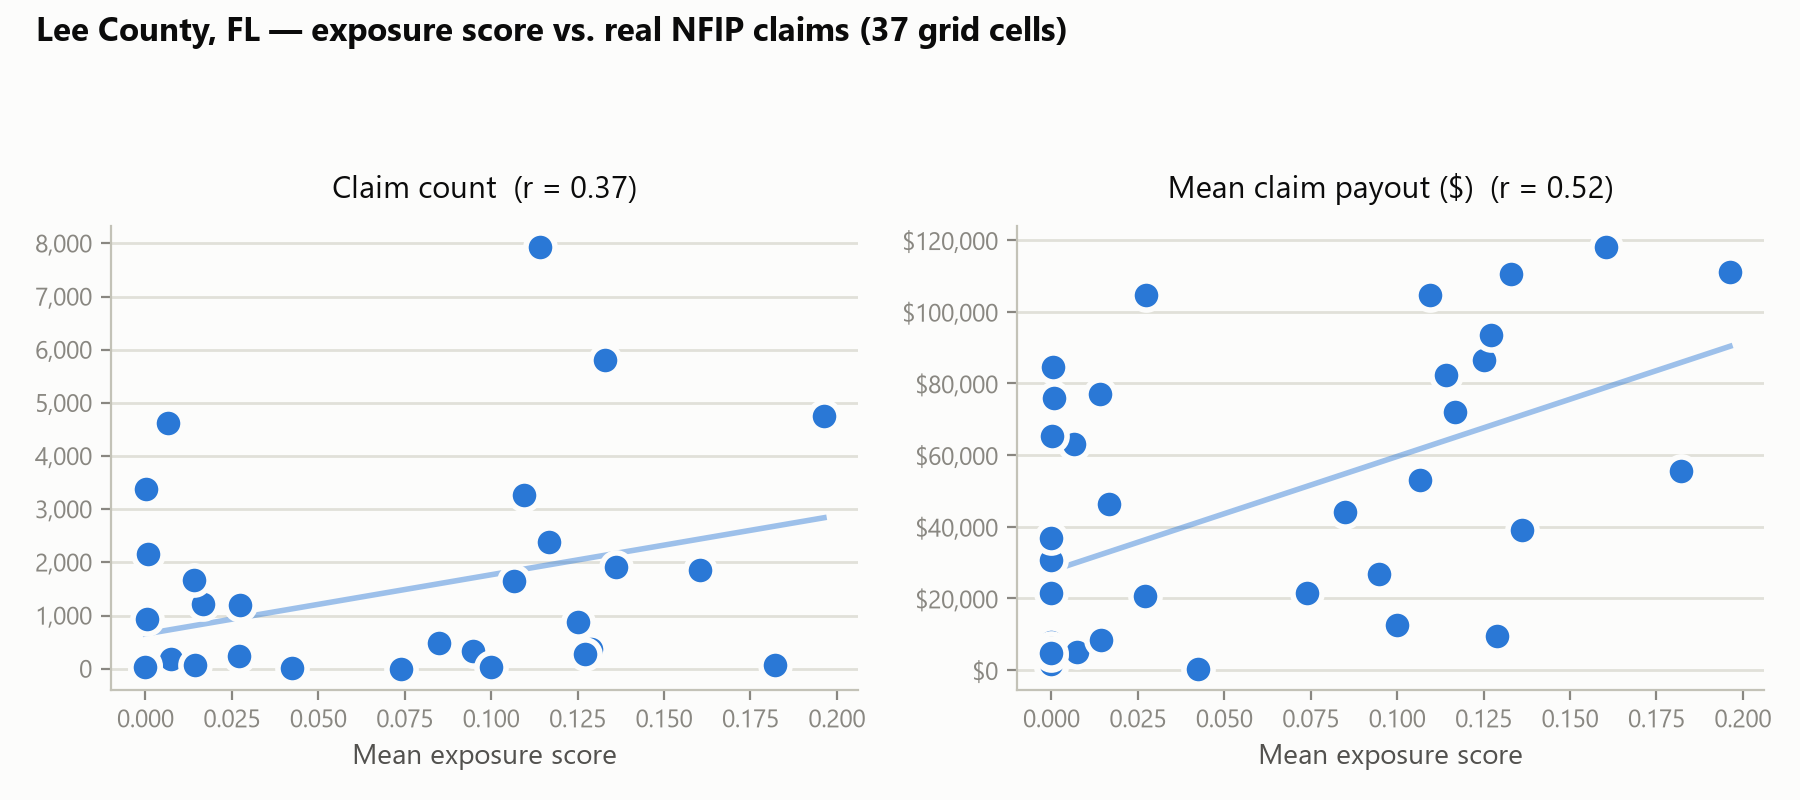
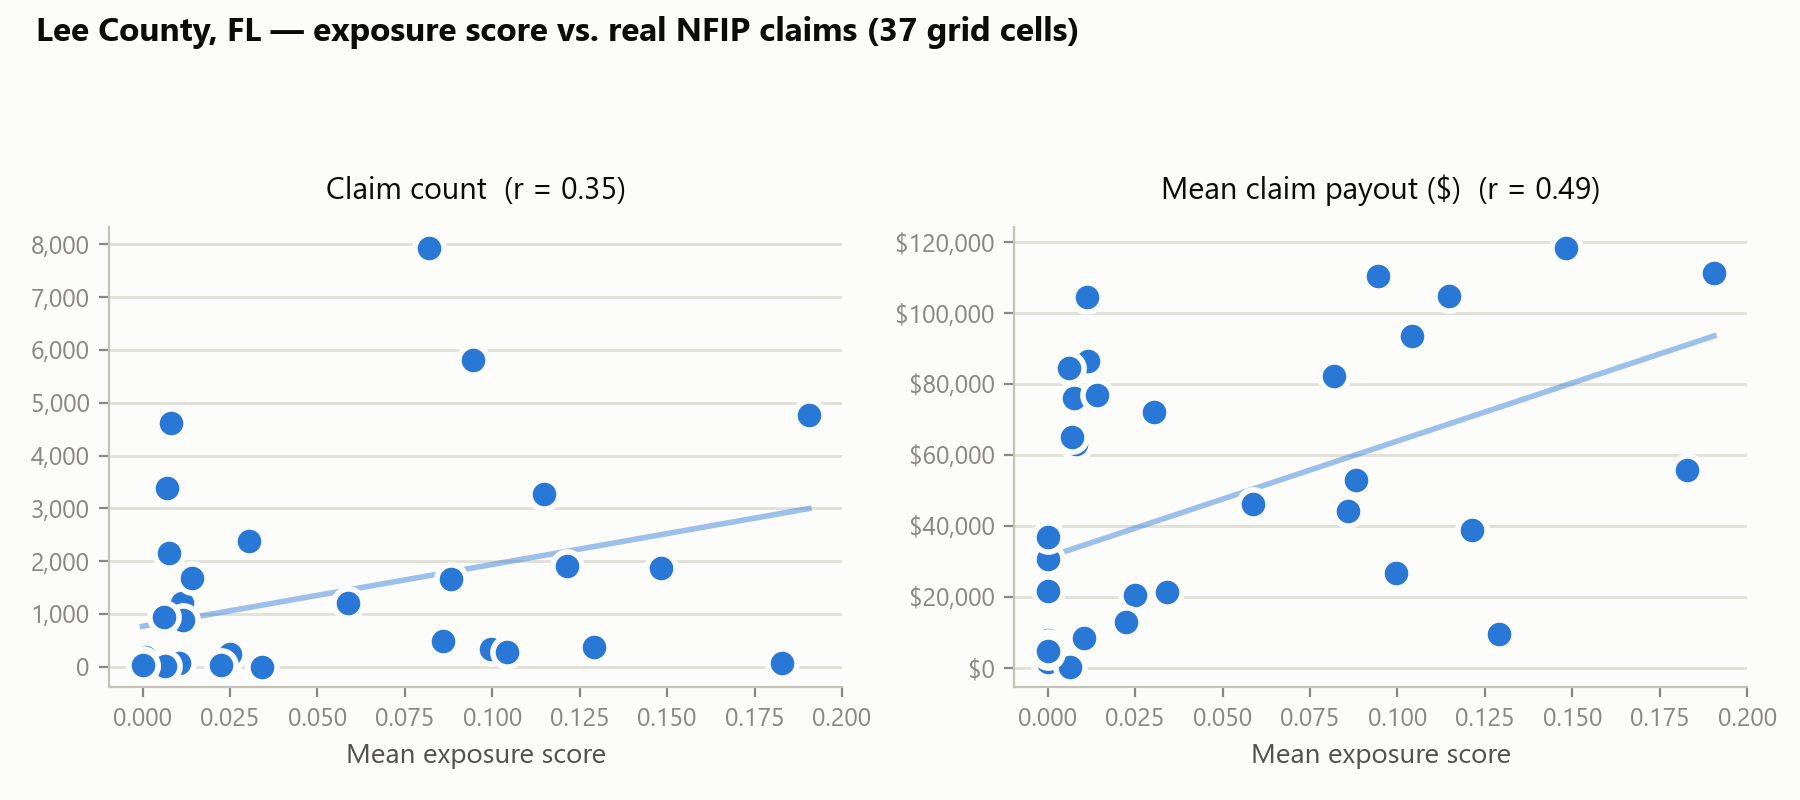
Paper §6/§6.1: regenerate grid numbers with the random per-cell sample
All years: r(score, count) 0.37 -> 0.35, r(score, payout) 0.52 -> 0.49.
Ian window: 0.25 -> 0.21 and 0.516 -> 0.49. Conclusions unchanged.
Updates the derived figures (coastal/inland split, low-score claim
share 30% -> 32%), the grid chart, cross-references in §6.2, §8, §9 and
§9.1, and fixes a sentence that called 0.37 "weaker" than 0.20.

diff --git a/paper/paper.md b/paper/paper.md
@@ -349,7 +349,7 @@ storm surge in September 2022.
 **Claims.** Fetched live from FEMA's OpenFEMA NFIP claims API (v3,
 `fema.gov/api/open/v3/NfipClaims`), filtered to `state='FL'` and
 `countyCode='12071'`, all available years (`data/nfip.py`). A small number
-of claims (12 of 48,117, ~0.02%) carry coordinates well outside any
+of claims (12 of 48,119, ~0.02%) carry coordinates well outside any
 plausible Lee County location (e.g. latitude 29.4°, off the Florida
 panhandle) and are dropped as mis-coded records before analysis —
 consistent with the data-quality issues Shin et al. (2022) document for
@@ -478,79 +478,85 @@ and dollars of §5.1 with rates and ratios. The steps are as follows.
 comparison with §6.2. Its per-cell building sample was the first 500 rows
 DuckDB returned for each cell, not a random sample. That is the same bias
 as §5.3, at a smaller scale. The script now samples randomly with a fixed
-seed (`overture.limit_clause`), but these numbers have not been
-regenerated. §6.2 scores every building and does not depend on sampling.*
+seed (`overture.limit_clause`). All numbers below were regenerated with
+that random sample on 2026-10-01, with the live flood feed switched off
+(§6, last paragraph). Correlations moved by 0.03–0.04 and no conclusion of
+this section changed. §6.2 scores every building and does not depend on
+sampling.*
 
-The per-cell run scored **18,050 buildings** across **37 grid cells**
-covering essentially all of Lee County, and matched them against **48,105**
+The per-cell run scored **18,042 buildings** across **37 grid cells**
+covering essentially all of Lee County, and matched them against **48,107**
 NFIP claims (after outlier filtering, §5) in those same 37 cells — full
 county-wide overlap, unlike the 5-cell overlap the flawed first pass
 produced (§5.3). Full per-cell data: [`paper/data/lee_county_grid.csv`](data/lee_county_grid.csv).
 
 <picture>
   <source media="(prefers-color-scheme: dark)" srcset="figures/validation-chart-dark.png">
-  <img src="figures/validation-chart-light.png" alt="Two scatter plots across 37 Lee County grid cells: mean exposure score vs. NFIP claim count (r=0.37) and vs. mean claim payout (r=0.52)">
+  <img src="figures/validation-chart-light.png" alt="Two scatter plots across 37 Lee County grid cells: mean exposure score vs. NFIP claim count (r=0.35) and vs. mean claim payout (r=0.49)">
 </picture>
 
 **H1 (claim frequency):** mean `exposure_score` correlated with claim count
-at **r = 0.37** — a real but modest positive relationship, weaker than the
-r = 0.20 the flawed 5-cell pass found, and far weaker than that pass's
-severity correlation of r = 0.81 (§5.3) suggested the eventual pattern
-would be.
+at **r = 0.35** — a real but modest positive relationship, somewhat stronger than
+the r = 0.20 the flawed 5-cell pass found. That pass's severity
+correlation of r = 0.81 (§5.3) turned out to be far too optimistic.
 
 **H2 (claim severity):** mean `exposure_score` correlated with mean claim
-payout at **r = 0.52** — moderate, and, as with H1, higher than the
+payout at **r = 0.49** — moderate, and, as with H1, higher than the
 frequency correlation but by a much smaller margin than the first pass
 implied. Both hypotheses are supported directionally; neither is a strong
 relationship.
 
 **The more informative pattern was spatial, not statistical.** Splitting
 the county's cells at roughly the coastline (lon ≤ -82.0° vs. lon > -82.0°):
-coastal cells average a mean exposure score of **0.081**, inland cells
-**0.039** — the score correctly recognizes the coast as more exposed, by a
+coastal cells average a mean exposure score of **0.068**, inland cells
+**0.027** — the score correctly recognizes the coast as more exposed, by a
 factor of ~2. But claim volume does not track that split: coastal cells
-account for 22,350 claims, inland cells **25,755** — Lee County's *interior*
+account for 22,350 claims, inland cells **25,757** — Lee County's *interior*
 generated more claims than its scored-as-riskier coastline. Roughly **30%
-of all claims (14,605 of 48,105) sit in cells with a mean exposure score
+of all claims (15,492 of 48,107, 32%) sit in cells with a mean exposure score
 below 0.02** — near the pipeline's effective floor — concentrated in the
 county's eastern cells (grid longitude -81.6 to -81.9, inland Fort Myers
 and Lehigh Acres). The highest-scoring cell in the dataset (26.4°N,
--81.9°W, score 0.196) sits at the coastal/inland boundary and does carry
+-81.9°W, score 0.191) sits at the coastal/inland boundary and does carry
 substantial claims (4,763) — but several purely inland cells (e.g. 26.6°N,
--82.0°W: score 0.0065, 4,619 claims; 26.6°N, -81.9°W: score 0.0002, 3,375
+-82.0°W: score 0.008, 4,619 claims; 26.6°N, -81.9°W: score 0.007, 3,375
 claims) carry comparable claim volume with a score indistinguishable from
 zero.
 
 **One more fact changes how to read all of the above: the active-flood term
-contributed nothing in this run.** Querying `data/flood_inundation.py`'s
-live NWM feed for the full county extent, in mid-2026, returns zero active
-inundation polygons — expected, since Lee County is not presently flooding
+contributed nothing in this run.** In the original run, querying
+`data/flood_inundation.py`'s live NWM feed for the full county extent, in
+mid-2026, returned zero active inundation polygons — expected, since Lee County is not presently flooding
 and the feed has no historical replay capability (§2.2). That means
-`flood_active` was `False` for every one of the 18,050 buildings scored
+`flood_active` was `False` for every building scored
 here, and every `exposure_score` in this study reduces exactly to its
 surge term: `0.6 * min(surge_ft, 20) / 20`. §6's correlations are therefore
 correlations against **SLOSH surge depth alone**, not against the full
 60/40 formula — the 40% flood-extent weight was structurally inert for
-this entire validation, through no fault of the buildings scored.
+this entire validation, through no fault of the buildings scored. The
+regenerated run therefore switches the live feed off explicitly
+(`run_exposure_pipeline(..., live_flood=False)`). This gives the same
+scores without depending on a service that was returning server errors,
+or letting present-day flooding leak into a 2022 validation.
 
 **6.1 Sensitivity check: restricting claims to Ian's own date window (§5.4).**
-Filtering `dateOfLoss` to 2022-08-31–2022-12-31 dropped **19,290 of 48,117
+Filtering `dateOfLoss` to 2022-08-31–2022-12-31 dropped **19,292 of 48,119
 claims (40%)** — a far larger share than the disclosed-but-unquantified
 Limitation 5 in the original draft implied. Three grid cells lost all
 their claims entirely and dropped out (37 → 34 overlapping cells); the
-remaining **16,550 scored buildings** matched against **28,827** real,
+remaining **16,543 scored buildings** matched against **28,816** real,
 Ian-window-only claims. The two hypotheses did *not* respond the same way:
 
 | | Unrestricted (all years, §6) | Ian window only (§6.1) | Change |
 |---|---|---|---|
-| Claims used | 48,105 | 28,827 | -40% |
+| Claims used | 48,107 | 28,816 | -40% |
 | Grid cells | 37 | 34 | -3 |
-| H1: r(score, claim count) | 0.37 | **0.25** | -0.12 |
-| H2: r(score, mean payout) | 0.52 | **0.516** | -0.004, essentially unchanged |
+| H1: r(score, claim count) | 0.35 | **0.21** | -0.14 |
+| H2: r(score, mean payout) | 0.49 | **0.49** | 0.000, unchanged |
 
 **H1's correlation is not robust to this check; H2's is.** Restricting to
 claims plausibly caused by Ian weakens the frequency relationship by about
-a third (0.37 → 0.25) while leaving the severity relationship untouched.
+about 40% (0.35 → 0.21) while leaving the severity relationship untouched.
 The natural read: **large-dollar claims cluster tightly with real,
 identifiable storm events almost regardless of which storm** (a
 catastrophic payout in Lee County is unlikely to come from routine,
@@ -585,7 +591,7 @@ Full per-cell data: [`paper/data/lee_county_grid_ian_window.csv`](data/lee_count
 **H1 is supported at every scale.** Once claims are divided by policies in
 force, mean MOM depth tracks Ian's claim rate strongly at all three units,
 with confidence intervals well clear of zero. The weak grid-level frequency
-result of §6 (*r* = 0.37, or 0.25 in Ian's window) came from counting
+result of §6 (*r* = 0.35, or 0.21 in Ian's window) came from counting
 claims rather than rating them. Raw counts on the grid still correlate only
 at *r* = 0.24 in this run, because a 0.1° cell's claim count mostly
 reflects how many insured buildings it contains.
@@ -707,7 +713,7 @@ The following bound how much weight these results can carry:
    places, and this study did not perform their full correction procedure.
    The original grid analysis used all years of claims. Restricting to
    Ian's date window dropped 40% of them and moved its frequency
-   correlation from r = 0.37 to 0.25 (§6.1). The main analysis (§5.5)
+   correlation from r = 0.35 to 0.21 (§6.1). The main analysis (§5.5)
    instead filters on FEMA's event designation for Ian, which avoids
    that contamination but inherits any errors in how FEMA attributed
    claims to the event.
@@ -759,8 +765,8 @@ The following bound how much weight these results can carry:
   `SURGE_WEIGHT`/`FLOOD_WEIGHT` in `pipeline.py` has been done on the
   strength of this result.
 - ~~Restrict claims to a tight post-Ian date window~~ — done (§5.4, §6.1):
-  H1 is window-sensitive (r=0.37 unrestricted vs. 0.25 restricted), H2
-  is not (0.52 vs. 0.516). What's still open: sweep the window's *width*
+  H1 is window-sensitive (r=0.35 unrestricted vs. 0.21 restricted), H2
+  is not (0.49 vs. 0.49). What's still open: sweep the window's *width*
   (this study picked one four-week-before/three-month-after window
   without testing sensitivity to that specific choice) to check whether
   H1's correlation keeps drifting as the window tightens further or has
@@ -784,7 +790,7 @@ being cited (§9).*
 
 A companion project, [surge-exposure-ml](https://github.com/DBishal13/surge-exposure-ml),
 independently fetched real NFIP claims for all 8 regions this pipeline's
-public demo dataset covers (140,732 claims total, vs. this study's 48,105
+public demo dataset covers (140,732 claims total, vs. this study's 48,107
 for Lee County alone) and re-ran this paper's exact grid-cell methodology
 (§5) against them — the same 0.1° snap-to-grid, the same per-cell
 aggregation, the same Pearson correlation — without re-scoring a single
@@ -793,7 +799,7 @@ values for the 7,717 buildings in its demo dataset exactly as this project
 produced them.
 
 **H2 (severity) held up, and strengthened, outside Lee County**: r = 0.52
-(Lee County) → r = 0.711 across all 13 cells in the wider dataset, rising
+(Lee County, original first-N sample; 0.49 after the §6 rerun) → r = 0.711 across all 13 cells in the wider dataset, rising
 to r = 0.805 with one outlier cell excluded. A heuristic that only worked
 by Lee-County-specific coincidence would be expected to weaken outside it,
 not strengthen — this is evidence against that reading.
